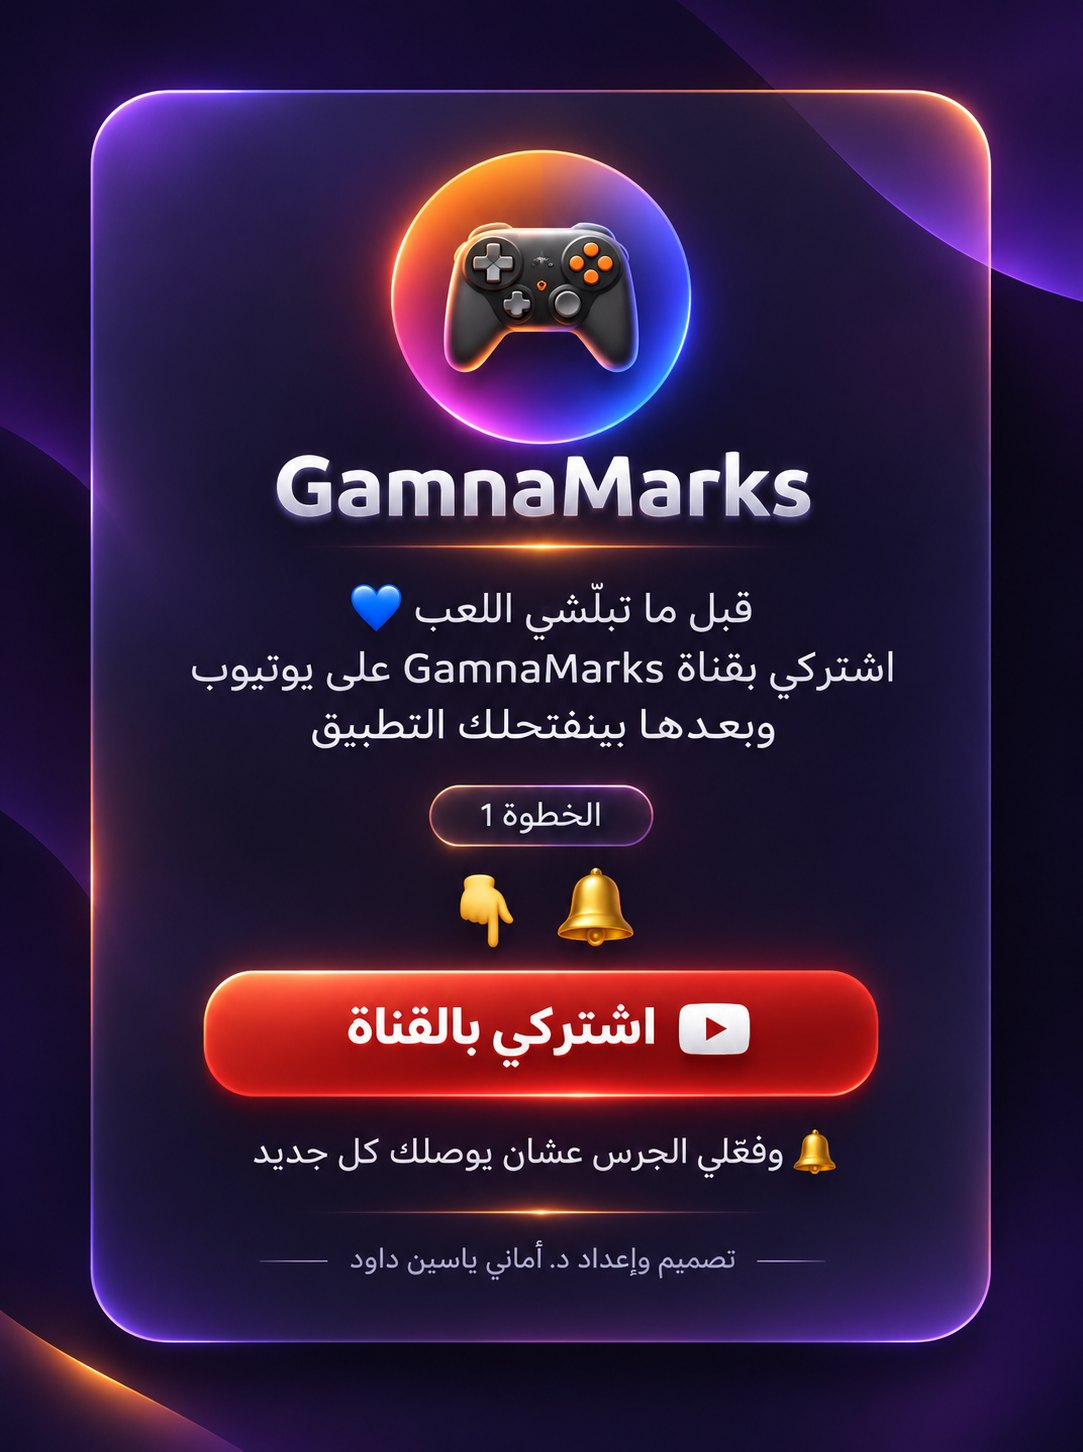
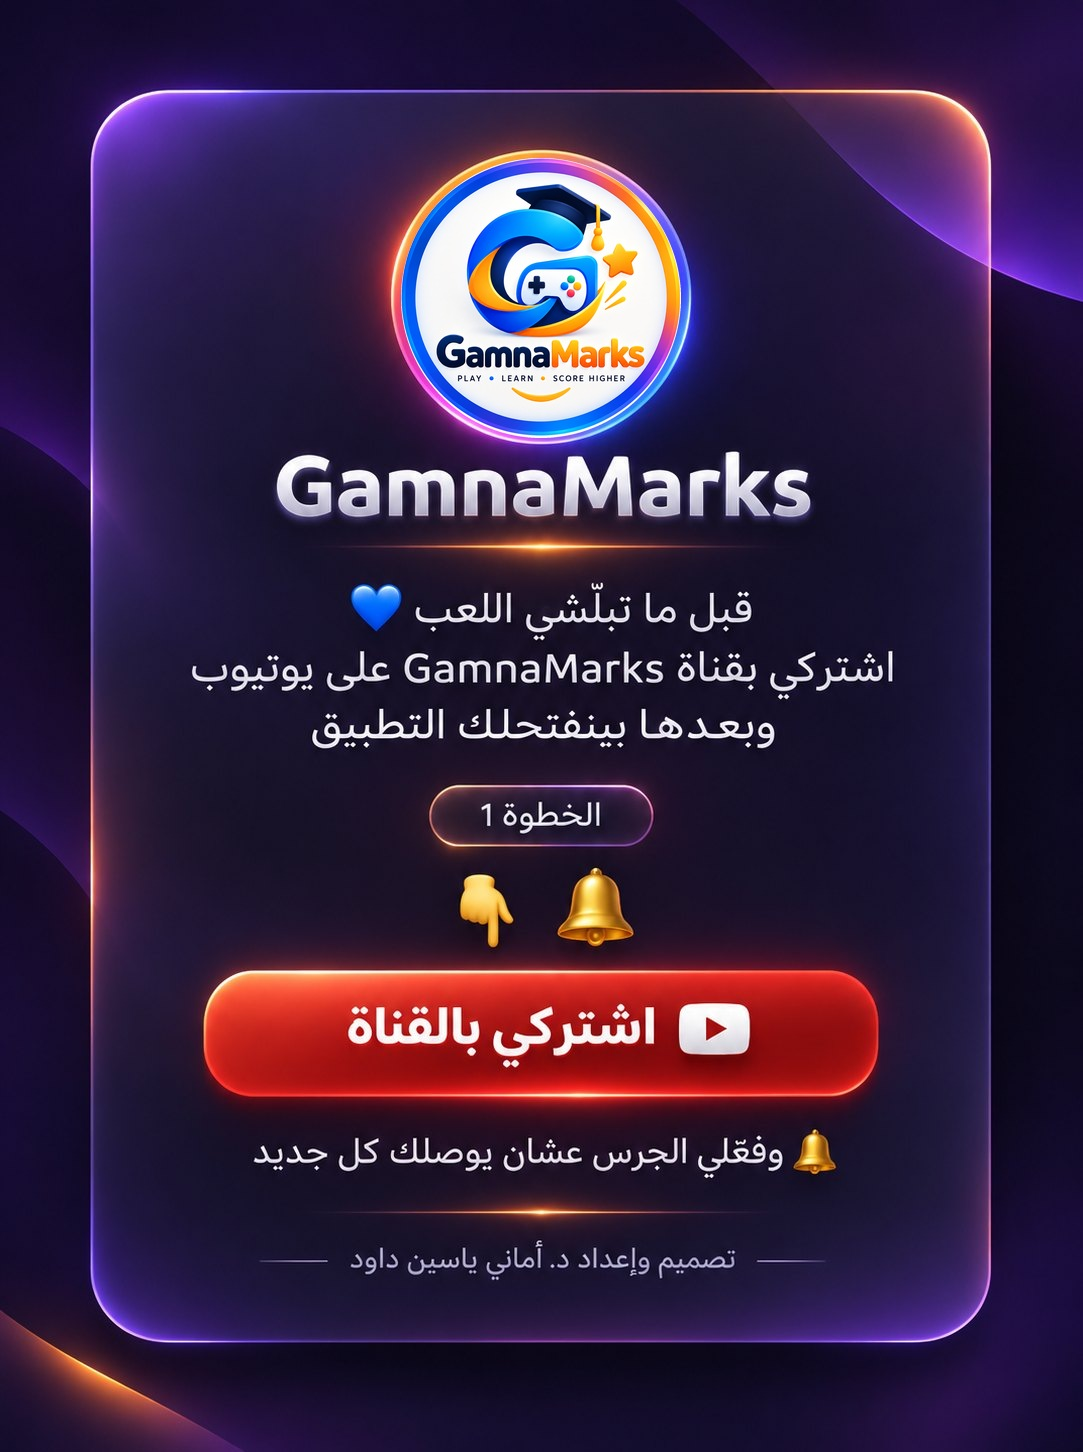
صفحة الاشتراك: لوجو GamnaMarks الدوّار بدل شكل يد اللعبة
Claude-Session: https://claude.ai/code/session_01KMXsdEdj1Nowc6u56E7SPn

Changed region(s): [[0.3657, 0.093, 0.6399, 0.3099]]

diff --git a/subscribe.html b/subscribe.html
@@ -13,6 +13,10 @@
   .wrap{position:relative;width:100%;max-width:460px;max-height:calc(100vh - 24px);aspect-ratio:1083/1452}
   .wrap img{display:block;width:100%;height:100%;object-fit:contain;user-select:none;-webkit-user-drag:none}
   /* مناطق الضغط فوق الصورة (بالنسبة المئوية عشان تزبط على كل الشاشات) */
+  /* لوجو GamnaMarks الدوّار (نفس فيديو الصفحة الرئيسية) جوّا الدائرة */
+  .logoSpin{position:absolute;left:37.03%;top:10.88%;width:25.85%;height:19.28%;border-radius:50%;overflow:hidden;
+            pointer-events:none}
+  .logoSpin video{position:absolute;left:-32.5%;top:-39.6%;width:165%;height:165%;object-fit:cover}
   .hot{position:absolute;display:block;border-radius:60px;-webkit-tap-highlight-color:transparent;cursor:pointer}
   .hot:active{background:rgba(255,255,255,.12)}
   #ytBtn{left:18.5%;right:18.5%;top:66.6%;height:8.8%}
@@ -52,6 +56,7 @@
 <body>
 <div class="wrap">
   <img src="subscribe-card.jpg" alt="اشتركي بقناة GamnaMarks على يوتيوب وفعّلي الجرس">
+  <div class="logoSpin"><video autoplay muted loop playsinline preload="auto"><source src="gamnamarks-logo.mp4" type="video/mp4"></video></div>
   <div class="pulse"></div>
   <a id="ytBtn"   class="hot sub" href="https://www.youtube.com/@GamnaMarks?sub_confirmation=1" target="_blank" rel="noopener" aria-label="اشتركي بالقناة"></a>
   <a id="bellBtn" class="hot sub" href="https://www.youtube.com/@GamnaMarks?sub_confirmation=1" target="_blank" rel="noopener" aria-label="فعّلي الجرس"></a>
